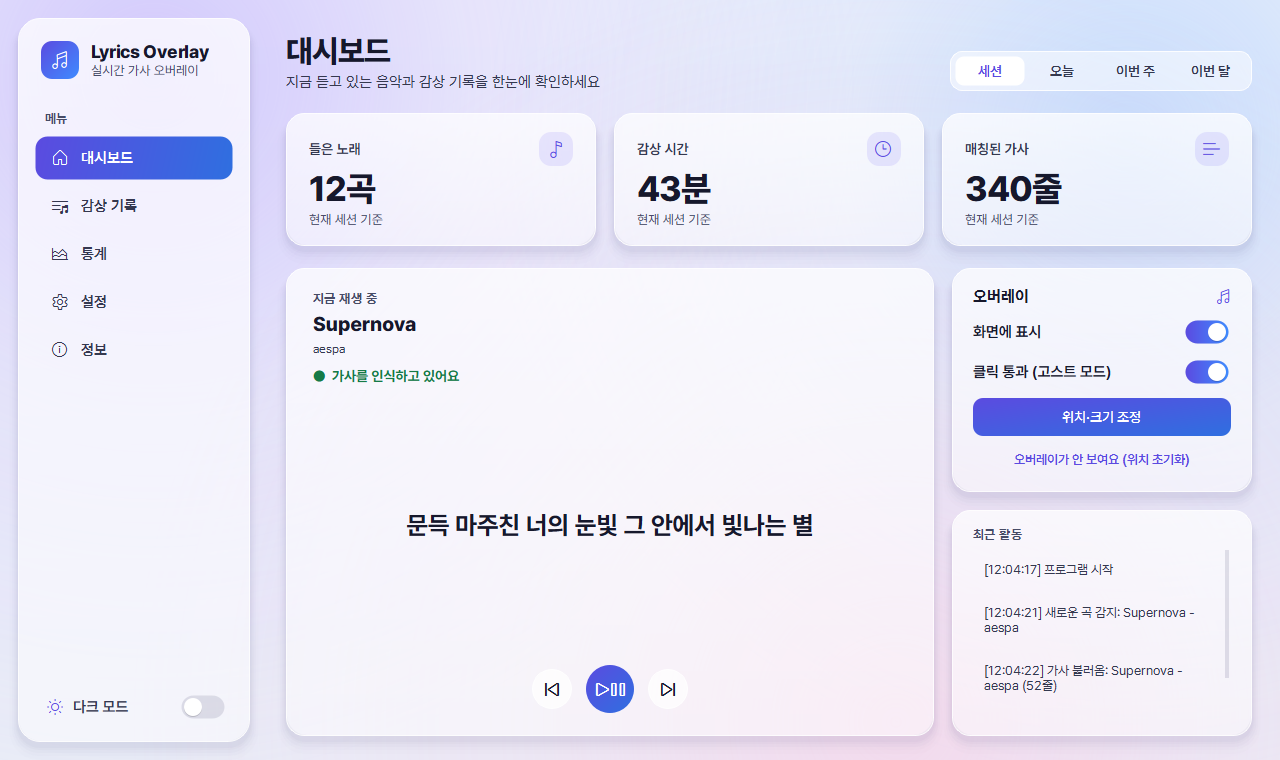
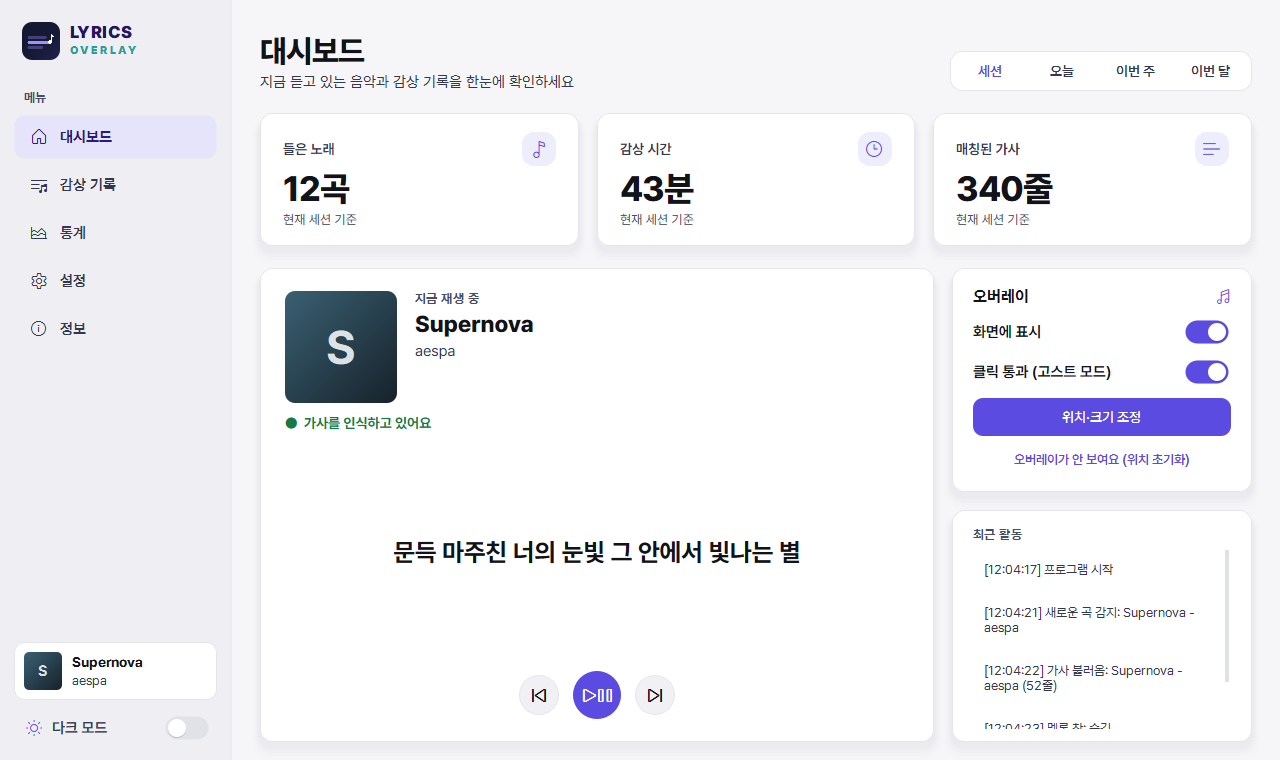
chore: 버전 1.3.0
아트워크 중심 디자인(시안 A), 앨범 커버, 새 앱 아이콘을 배포합니다.
가이드에 앨범 커버와 사이드바 지금 재생을 적고 스크린샷을 새 디자인으로 다시 만들었습니다
(스크린샷에는 실제 앨범 커버 대신 대체 타일).

diff --git a/docs/guide/guide_template.html b/docs/guide/guide_template.html
@@ -235,7 +235,7 @@
 
 <section id="screens" class="pb">
   <h2><span class="num">4</span>대시보드</h2>
-  <p>왼쪽 사이드바에서 페이지를 바꾸고, 사이드바 아래 스위치로 다크 모드를 켜고 끕니다. 창 크기는 자유롭게 조절할 수 있습니다.</p>
+  <p>왼쪽 사이드바에서 페이지를 바꾸고, 사이드바 아래 스위치로 다크 모드를 켜고 끕니다. 사이드바 아래에는 지금 재생 중인 곡이 앨범 커버와 함께 표시됩니다. 창 크기는 자유롭게 조절할 수 있습니다.</p>
   <figure><img src="{{IMG:dashboard_light.png}}" alt="대시보드"><figcaption>대시보드: 감상 요약, 지금 재생 중, 오버레이 빠른 제어, 최근 활동</figcaption></figure>
   <ul>
     <li><b>감상 요약</b>: 들은 노래, 감상 시간, 매칭된 가사 줄 수. 오른쪽 위에서 세션 · 오늘 · 이번 주 · 이번 달 기준을 고릅니다.</li>
@@ -338,6 +338,7 @@
   <figure><img src="{{IMG:history_light.png}}" alt="감상 기록"><figcaption>감상 기록: 제목·가수 검색, 여러 곡 선택 삭제, 전체 삭제, CSV 내보내기</figcaption></figure>
   <ul>
     <li><b>검색</b>: 제목이나 가수 일부를 입력하면 바로 걸러집니다.</li>
+    <li><b>앨범 커버</b>: 곡마다 멜론 앨범 커버를 보여 줍니다. 새로 듣는 곡은 가사를 찾을 때 함께 받고, 예전 기록은 목록에 보일 때 하나씩 천천히 채웁니다. 커버를 못 찾은 곡은 색 타일로 표시됩니다. 받은 커버는 데이터 폴더의 <code>covers</code>에 저장됩니다.</li>
     <li><b>멜론에서 열기</b>: 곡을 더블 클릭하면 브라우저에서 멜론 곡 페이지가 열립니다. 1.2.3 이전에 쌓인 기록처럼 곡 정보가 없으면 제목·가수로 멜론 검색 결과를 엽니다.</li>
     <li><b>삭제</b>: <kbd>Ctrl</kbd>·<kbd>Shift</kbd>로 여러 곡을 고른 뒤 <b style="display:inline">선택 삭제</b>나 <kbd>Delete</kbd>. 지운 기록은 되돌릴 수 없으며, 누적 감상 시간과 가사 줄 수는 그대로 남습니다.</li>
     <li><b>CSV로 내보내기</b>: 재생 시각, 제목, 가수, 재생 시간(초), 가사 줄 수를 엑셀에서 열 수 있는 파일로 저장합니다. 전체 삭제 전에 보관용으로 쓰세요.</li>

diff --git a/core/version.py b/core/version.py
@@ -1,6 +1,6 @@
 """앱 버전 (정보 페이지 등에서 표시). 릴리즈할 때 이 값만 올리면 됩니다."""
 
-APP_VERSION = "1.2.4"
+APP_VERSION = "1.3.0"
 
 # 작업 표시줄이 이 앱을 구분하는 ID (AppUserModelID).
 # Windows는 이 ID별로 작업 표시줄 아이콘을 기억해 두는데, 예전 ID(owwl.lyricsoverlay.app.1.0)에는

diff --git a/docs/guide/make_screenshots.py b/docs/guide/make_screenshots.py
@@ -209,7 +209,7 @@ shot("dashboard_onboarding_light.png")
 
 # 일반 대시보드
 dash.finish_onboarding()
-dash.set_now_playing("Supernova", "aespa")
+window.set_now_playing("Supernova", "aespa")
 dash.set_status("ok", "가사를 인식하고 있어요")
 dash.curr_lyric.setText(SAMPLE_LYRIC)
 shot("dashboard_light.png", readme=True)
